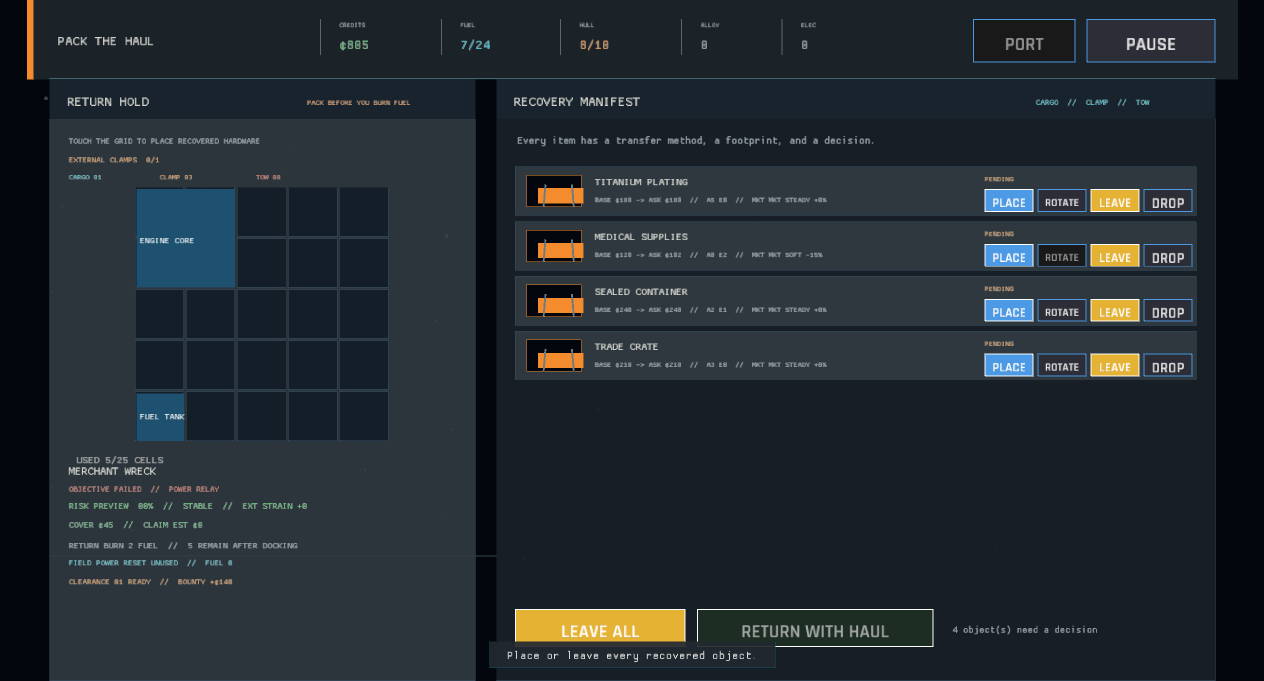
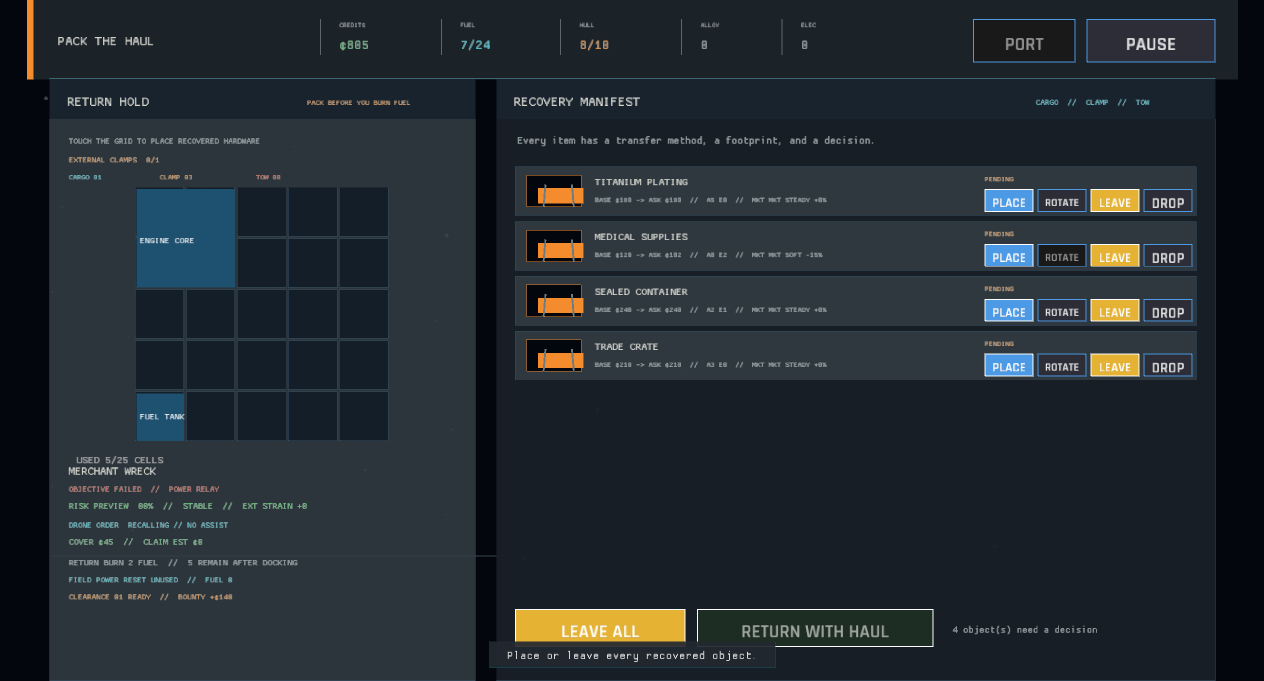
The packing deck shows which ghost-order will follow the cargo home (packing drone telemetry)
The return-hold forecast now repeats the active drone order and its speed or safety posture before the captain commits the haul. Existing burn, coverage, reset, and section-bounty readouts were reflowed and verified in the packing capture.

Changed region(s): [[0.0617, 0.7401, 0.2468, 0.8943]]

diff --git a/src/ui/salvage_items.rs b/src/ui/salvage_items.rs
@@ -3,6 +3,7 @@
 use super::*;
 use crate::engine::exposure_label;
 use crate::state::workspace::TransferMode;
+use crate::state::DroneDirective;
 use crate::ui::visual_theme;
 
 #[cfg(test)]
@@ -143,7 +144,7 @@ fn draw_hold_panel(ctx: &UiContext<'_>, actions: &mut Vec<UiAction>) {
     draw_text(
         &packing_coverage_label(ctx, risk_preview.as_ref()),
         hold.x + 20.0,
-        hold.y + 474.0,
+        hold.y + 492.0,
         12.0,
         if ctx
             .session
@@ -157,12 +158,22 @@ fn draw_hold_panel(ctx: &UiContext<'_>, actions: &mut Vec<UiAction>) {
         },
     );
     draw_text(
+        drone_order_label(
+            ctx.session.workspace_drone_directive(),
+            ctx.session.workspace_drones_deployed(),
+        ),
+        hold.x + 20.0,
+        hold.y + 474.0,
+        11.0,
+        visual_theme::cyan(),
+    );
+    draw_text(
         &return_burn_label(
             ctx.session.economy.fuel,
             ctx.data.config.safe_return_buffer.max(0),
         ),
         hold.x + 20.0,
-        hold.y + 496.0,
+        hold.y + 514.0,
         12.0,
         visual_theme::text_dim(),
     );
@@ -174,7 +185,7 @@ fn draw_hold_panel(ctx: &UiContext<'_>, actions: &mut Vec<UiAction>) {
                 .map_or(0, |expedition| expedition.power_cycles_used),
         ),
         hold.x + 20.0,
-        hold.y + 514.0,
+        hold.y + 532.0,
         11.0,
         visual_theme::cyan(),
     );
@@ -189,7 +200,7 @@ fn draw_hold_panel(ctx: &UiContext<'_>, actions: &mut Vec<UiAction>) {
     draw_text(
         clearance_forecast_label(clearance.0, clearance.1),
         hold.x + 20.0,
-        hold.y + 534.0,
+        hold.y + 550.0,
         11.0,
         if clearance.0 > 0 {
             visual_theme::amber()
@@ -219,6 +230,15 @@ fn transfer_counts(ctx: &UiContext<'_>) -> (usize, usize, usize) {
         }
     }
     counts
+}
+
+fn drone_order_label(directive: DroneDirective, drones_active: bool) -> String {
+    match (drones_active, directive) {
+        (true, DroneDirective::Survey) => "DRONE ORDER  SURVEY // SAFETY".to_owned(),
+        (true, DroneDirective::PullSupport) => "DRONE ORDER  PULL // SPEED".to_owned(),
+        (_, DroneDirective::Standby) => "DRONE ORDER  STANDBY // NO ASSIST".to_owned(),
+        (false, _) => "DRONE ORDER  RECALLING // NO ASSIST".to_owned(),
+    }
 }
 
 fn draw_manifest(ctx: &UiContext<'_>, actions: &mut Vec<UiAction>) {

diff --git a/src/ui/salvage_items/tests.rs b/src/ui/salvage_items/tests.rs
@@ -55,3 +55,19 @@ fn packing_hold_forecasts_the_new_section_bounty() {
         "CLEARANCE 00 READY  //  NO NEW BOUNTY"
     );
 }
+
+#[test]
+fn packing_hold_repeats_the_order_that_will_be_filed() {
+    assert_eq!(
+        drone_order_label(crate::state::DroneDirective::Survey, true),
+        "DRONE ORDER  SURVEY // SAFETY"
+    );
+    assert_eq!(
+        drone_order_label(crate::state::DroneDirective::PullSupport, true),
+        "DRONE ORDER  PULL // SPEED"
+    );
+    assert_eq!(
+        drone_order_label(crate::state::DroneDirective::Standby, false),
+        "DRONE ORDER  STANDBY // NO ASSIST"
+    );
+}
